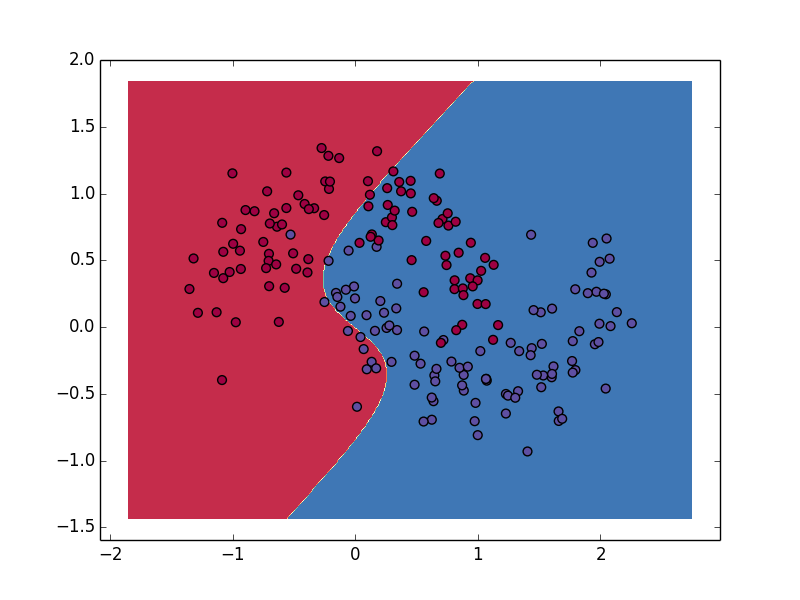
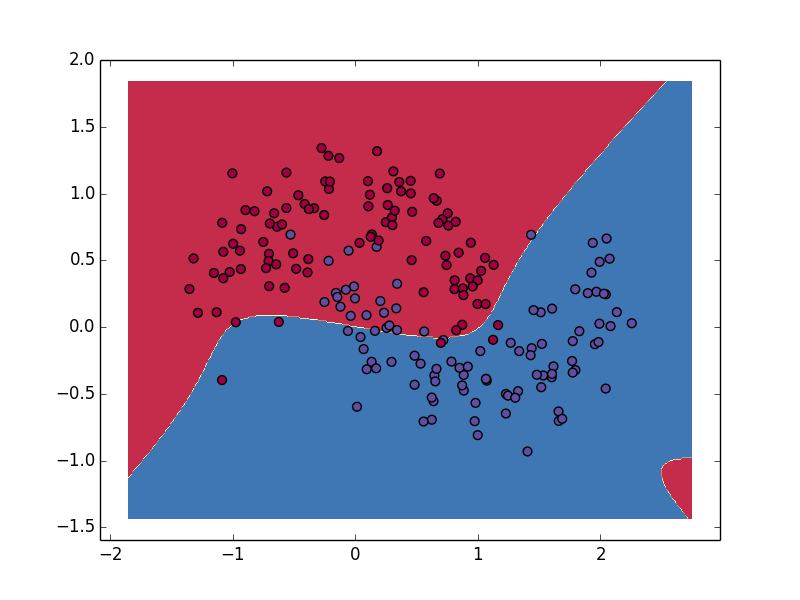
new charts

Changed region(s): [[0.1562, 0.12, 0.8438, 0.87], [0.8125, 0.75, 0.875, 0.87]]

diff --git a/main.py b/main.py
@@ -10,8 +10,9 @@ import matplotlib.pyplot as plt
 import numpy as np
 from sklearn import datasets, linear_model
 
+import data
 
-path = "./result/"
+path = "./test/"
 dataset_size = 200
 loss_delta = 0.0000001
 
@@ -67,10 +68,12 @@ def plot_decision_boundary(pred_func, X, y, i):
 	Z = pred_func(D)
 	Z = Z.reshape(xx.shape)
 
-	plt.contourf(xx, yy, Z, cmap=plt.cm.Spectral)
-	plt.scatter(X[:,0], X[:,1], s=40, c=y, cmap=plt.cm.Spectral)
+#	plt.contourf(xx, yy, Z, cmap=plt.cm.Spectral)
+#	plt.scatter(X[:,0], X[:,1], s=40, c=y, cmap=plt.cm.Spectral)
 #	plt.scatter(X[:,0], X[:,1], s=40, c=y)
-	plt.savefig(path + str(i) + ".png", format='png')
+	plt.contourf(xx, yy, Z, cmap=plt.cm.seismic)
+	plt.scatter(X[:,0], X[:,1], s=40, c=y, cmap=plt.cm.seismic)
+	plt.savefig(path + "test_set1" + ".png", format='png')
 
 
 def calculate_loss(X, y, model):
@@ -133,7 +136,8 @@ def train_network(X, y, model, print_loss=False):
 	print
 
 	while True:
-		y_hat, _, a1, _ = forward_propagation(X, model)
+#		y_hat, _, a1, _ = forward_propagation(X, model)
+		y_hat, z1, a1, z2 = forward_propagation(X, model)
 
 		dW1, db1, dW2, db2 = backpropogation(X, y, y_hat, a1, model)
 
@@ -147,7 +151,7 @@ def train_network(X, y, model, print_loss=False):
 
 		current_loss = calculate_loss(X, y, model)
 		if i % 50 == 0:
-			visualize(X, y, model, i)
+#			visualize(X, y, model, i)
 			print("\tLoss after iteration %i: %f" % (i, current_loss))
 
 		if abs(current_loss - last_loss) > loss_delta:
@@ -156,6 +160,9 @@ def train_network(X, y, model, print_loss=False):
 			break
 
 		i = i + 1
+
+	a = predict(X, model)
+	print list(a)
 
 	print("\tMinimal loss calculated on %i iteration: loss = %f" % (i, current_loss))
 	return model
@@ -192,8 +199,19 @@ def format_print(model):
 
 	print "\tb2:\n\t   ", model["b2"]
 
+#======================================================================
+model_erl = {
+		"W1": np.array([[-3.363171846284268,3.9442164237878488,2.9922150117631654],[0.7930534650839552,-0.7758100494565097,2.5574413557182742]]),
+		"b1": np.array([[-1.2451114742261244,-4.670694767699797,-2.244981504083405]]),
+		"W2": np.array([[3.5987838698415566,-2.0161703693843216],[-4.030738233948683,5.10436937137815],[4.598538159596516,-4.246981385708192]]),
+		"b2": np.array([[-0.7348899787424444,0.734889978742444]])}
+#	visualize(X, y, model2, "erlang")
+#======================================================================
+
 def main():
 	X, y = generate_data()
+	visualize(X, y, model_erl, "erlang")
+
 	hidden_neuron_quantity = 3
 	model = multilayer_perceptron(X, y, hidden_neuron_quantity)
 	n_model = deepcopy(model)
@@ -204,16 +222,6 @@ def main():
 		#y - массив значений, принадлежность к классу - [1, 0, 0, 1, 1, ..]
 
 		model2 = train_network(X, y, model, print_loss=True)
-
-
-#======================================================================
-	model2 = {
-		"W1": [[-3.363171846284268,3.9442164237878488,2.9922150117631654],[0.7930534650839552,-0.7758100494565097,2.5574413557182742]],
-		"b1": [-1.2451114742261244,-4.670694767699797,-2.244981504083405],
-		"W2": [[3.5987838698415566,-2.0161703693843216],[-4.030738233948683,5.10436937137815],[4.598538159596516,-4.246981385708192]],
-		"b2":[-0.7348899787424444,0.734889978742444]}
-#	visualize(X, y, model2, "erlang")
-#======================================================================
 
 	print "\n\tPerceptron before training:\n\t"
 	format_print(n_model)
